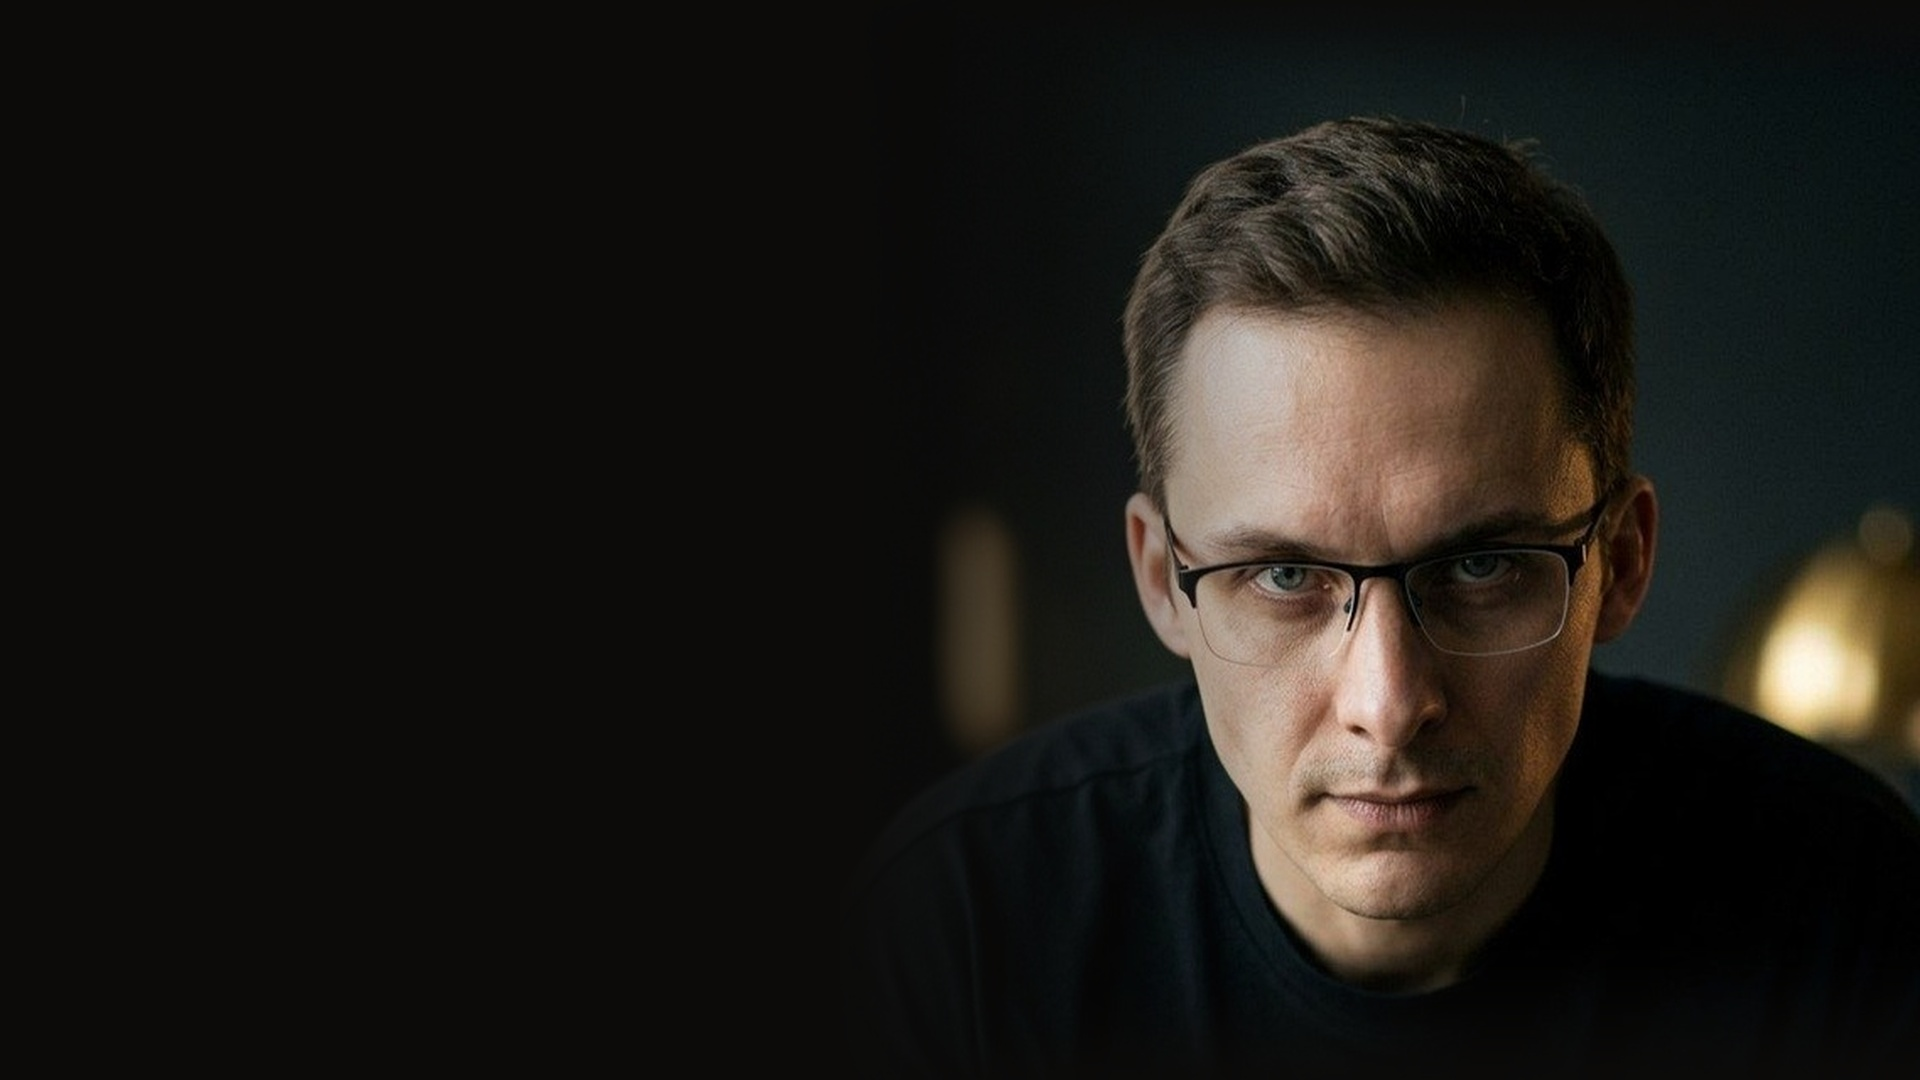
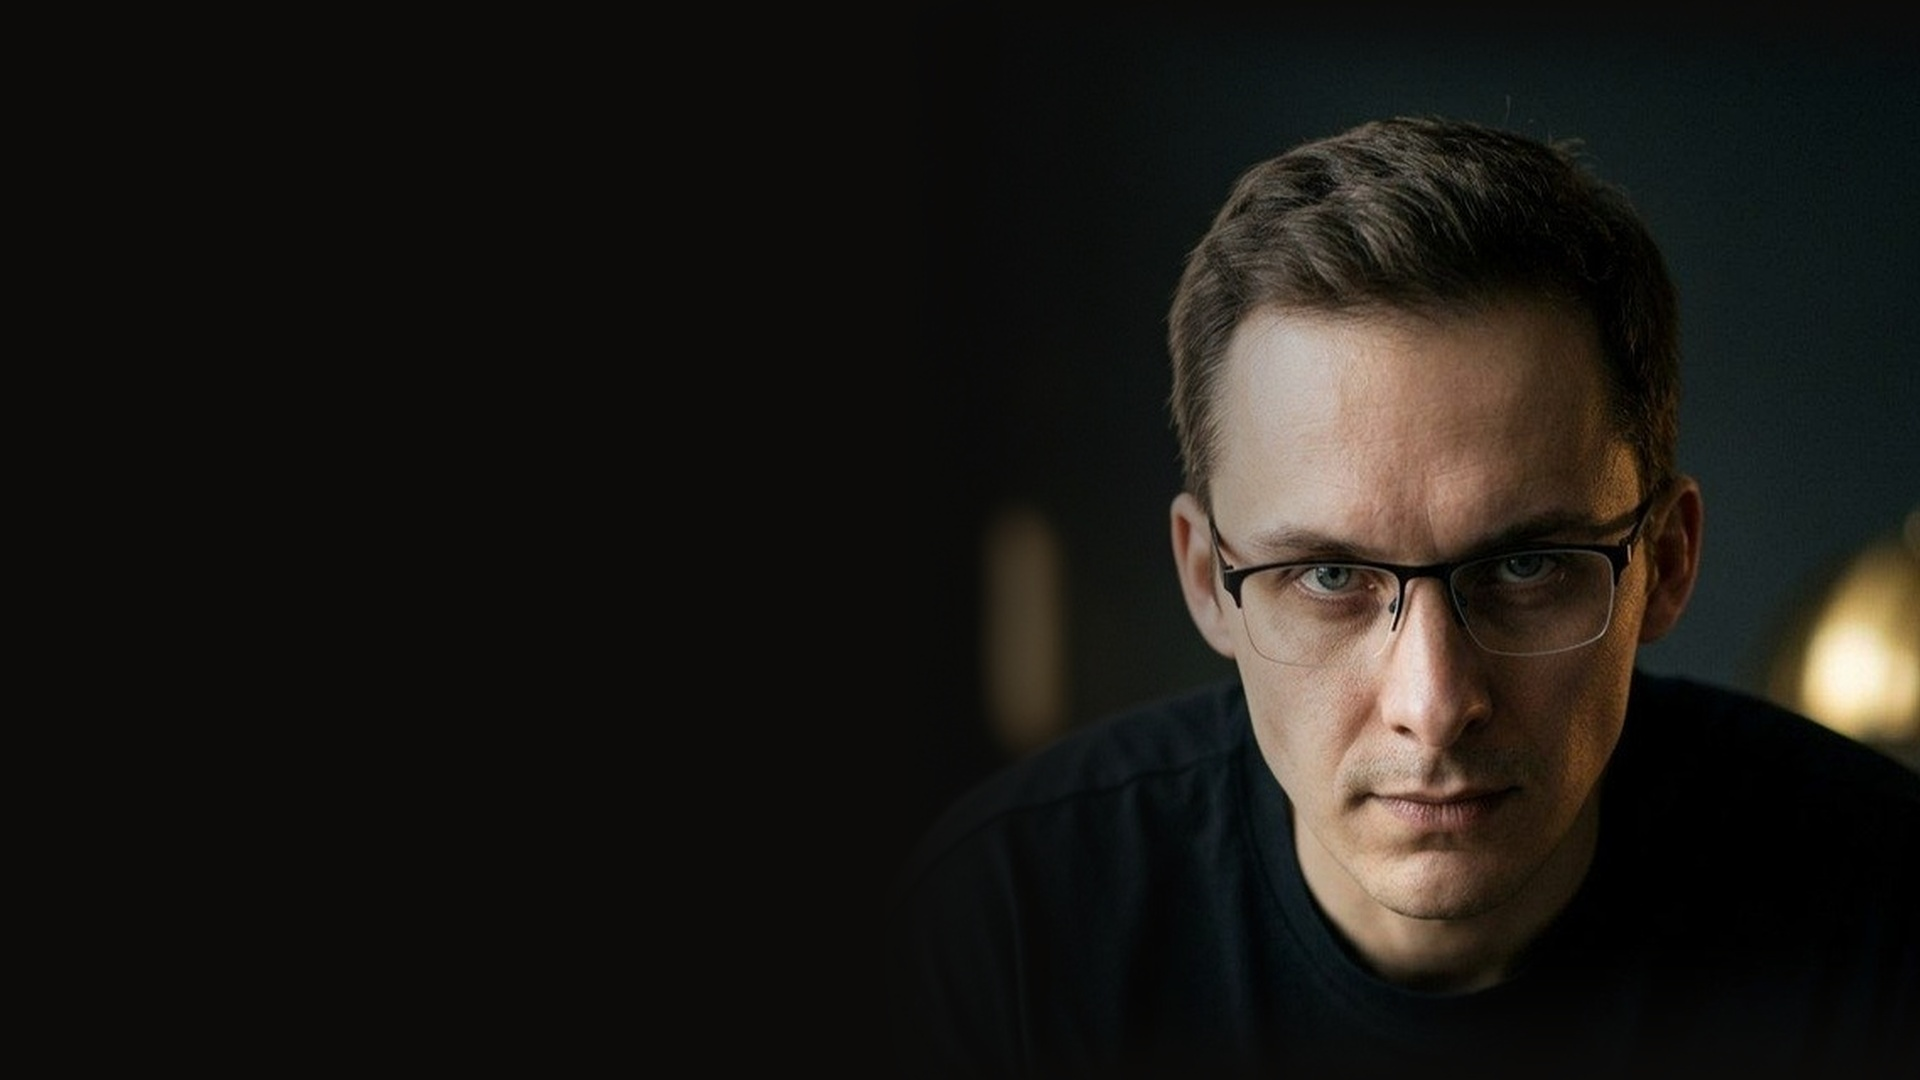
feat: clean hero layout without box outline, single top corner accent, shifted photo right

Changed region(s): [[0.4688, 0.0917, 1.0, 0.9167]]

diff --git a/css/styles.css b/css/styles.css
@@ -197,18 +197,16 @@ img {
   text-align: left;
 }
 
-/* Dan Authentic Frame (Left-Aligned) */
+/* Dan Authentic Frame (Left-Aligned, No Background/Border, Top-Left Corner Only) */
 .frame-inner-left {
   position: relative;
-  padding: 34px 44px;
-  background: rgba(12, 11, 10, 0.55);
-  backdrop-filter: blur(10px);
-  border: 1px solid rgba(255, 255, 255, 0.05);
+  padding: 16px 0 0 20px;
+  background: transparent;
   display: inline-block;
   margin-bottom: 24px;
 }
 
-.frame-1, .frame-2 {
+.frame-1 {
   position: absolute;
   left: 0;
   top: 0;
@@ -217,26 +215,16 @@ img {
   pointer-events: none;
 }
 
-.frame-1::before, .frame-2::after {
+.frame-1::before {
   content: '';
   display: block;
   position: absolute;
-  width: 36px;
-  height: 36px;
-}
-
-.frame-1::before {
   top: 0;
   left: 0;
+  width: 36px;
+  height: 36px;
   border-top: 2px solid var(--accent-amber);
   border-left: 2px solid var(--accent-amber);
-}
-
-.frame-2::after {
-  bottom: 0;
-  right: 0;
-  border-bottom: 2px solid var(--accent-amber);
-  border-right: 2px solid var(--accent-amber);
 }
 
 .frame-inner-left .frame-estd {

diff --git a/index.html b/index.html
@@ -83,7 +83,6 @@
           <h1 class="frame-name">ЕВГЕНИЙ ГАНИМАР</h1>
           <div class="frame-role">ДИРЕКТОР ПО МАРКЕТИНГУ & АРХИТЕКТОР AI-РЕШЕНИЙ</div>
           <span class="frame-1"></span>
-          <span class="frame-2"></span>
         </div>
 
         <p class="hero-tagline-p">
